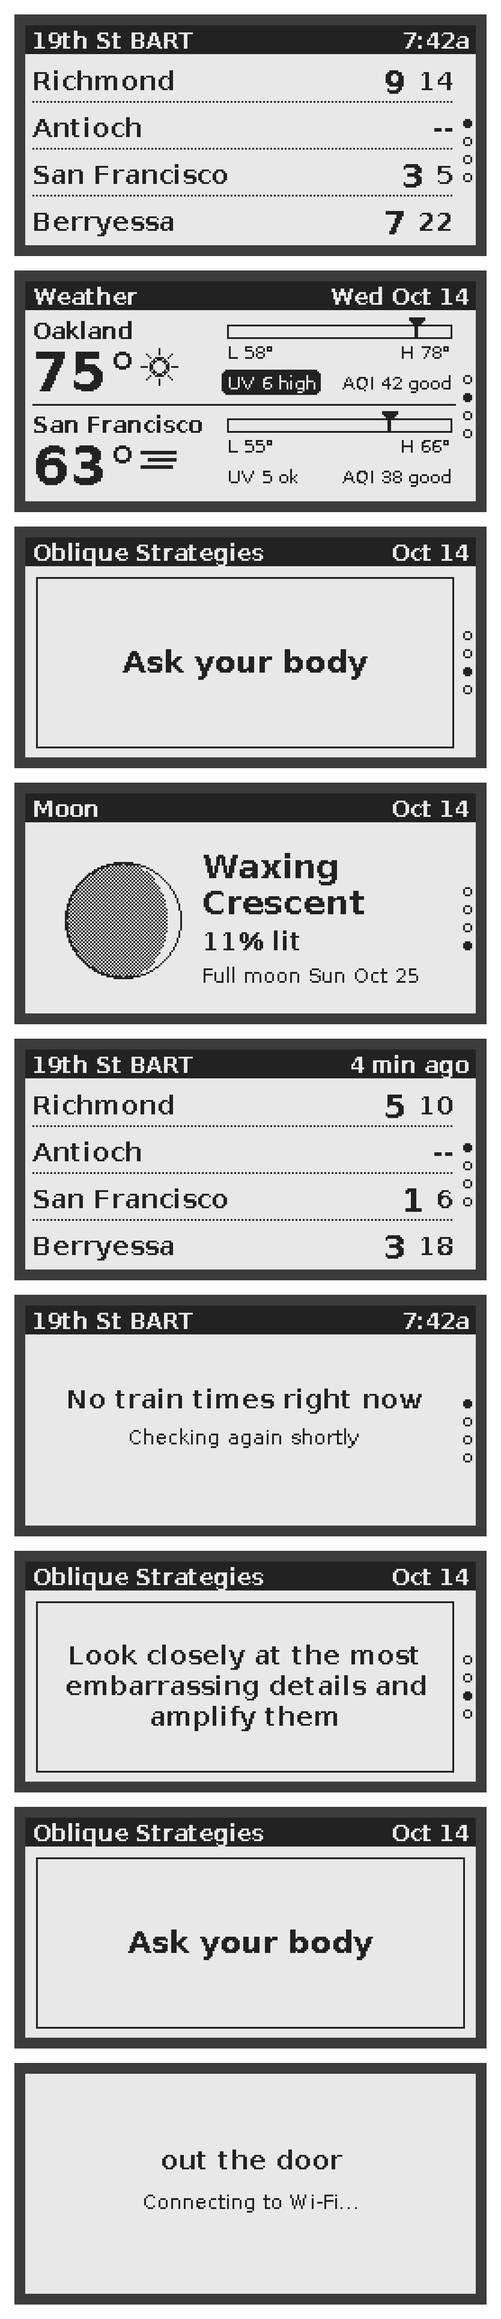
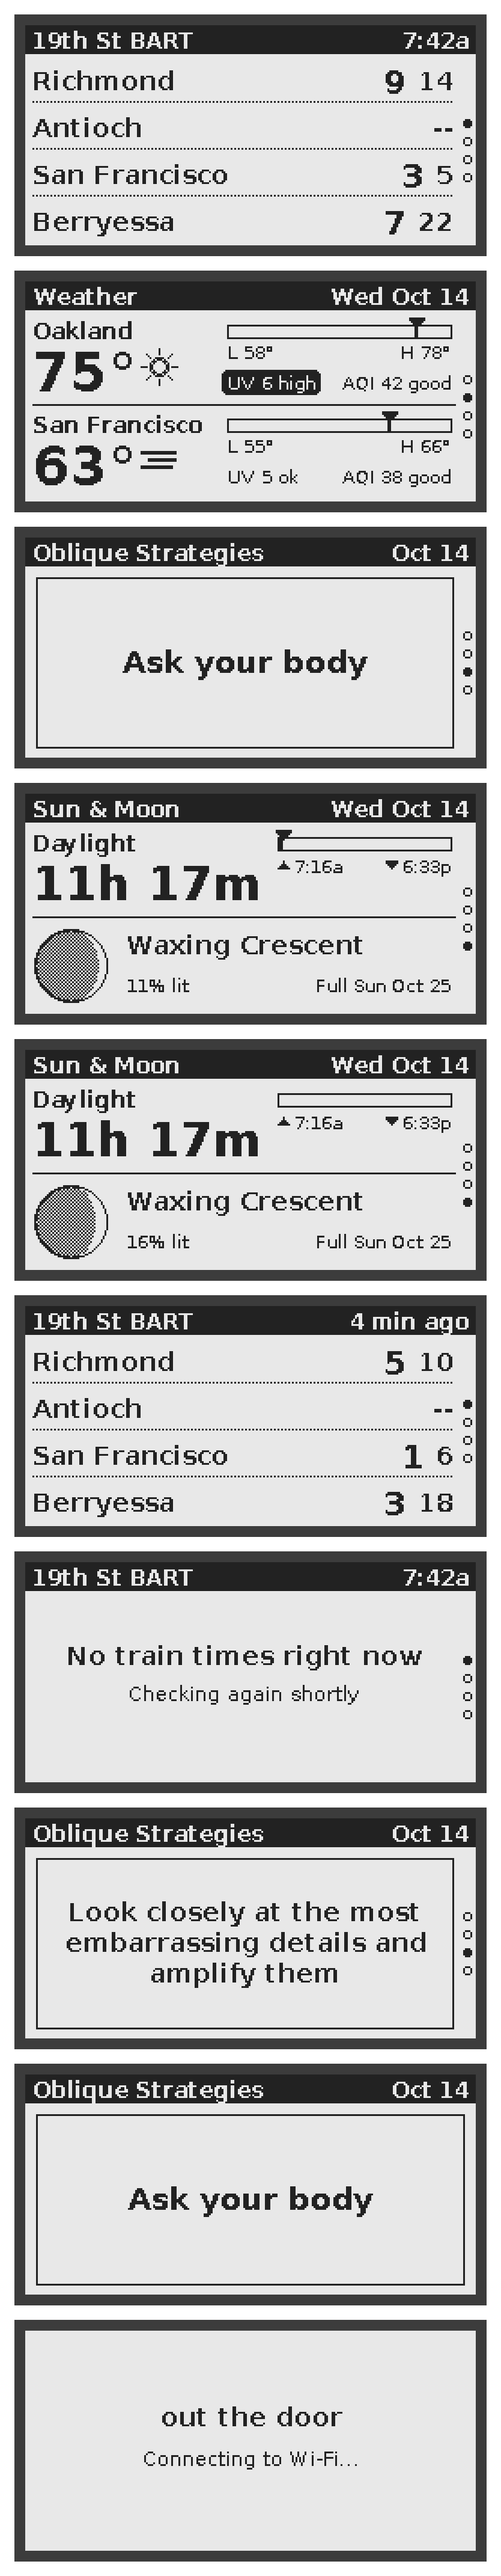
Draft: Sun & Moon screen in place of the moon screen
Day length, a sunrise-to-sunset bar with now marked (like the weather
screen's day bar), and the moon below with phase, % lit and next full moon.
Sunrise/sunset computed offline for the first weather city.

Claude-Session: https://claude.ai/code/session_01M5UbGXJzkkxR9ktM5CU7Wv

diff --git a/lib/core/screens.cpp b/lib/core/screens.cpp
@@ -265,6 +265,58 @@ void drawMoon(Adafruit_GFX &g, const Now &now) {
   pageDots(g, 3);
 }
 
+void drawSunMoon(Adafruit_GFX &g, const Now &now, const CityConfig &where) {
+  char buf[48];
+  formatDayMonthDay(now, buf, sizeof buf);
+  header(g, "Sun & Moon", buf);
+  g.drawFastHLine(4, 68, CONTENT_R - 3, INK);
+
+  // Top: day length, and a bar from sunrise to sunset with now marked on it,
+  // drawn like the weather screen's low-to-high bar.
+  drawText(g, BOLD12, 4, 20, "Daylight", INK);
+  long rise, set;
+  if (!sunTimes(now.localDays, where.lat, where.lon, &rise, &set)) {
+    drawText(g, BOLD26, 4, 34, "--", INK);
+  } else {
+    const long mins = (set - rise + 30) / 60;
+    snprintf(buf, sizeof buf, "%ldh %ldm", mins / 60, mins % 60);
+    drawText(g, BOLD26, 4, 34, buf, INK);
+
+    const int bx0 = 140, bx1 = CONTENT_R - 2, by0 = 24, by1 = 31;
+    g.drawRect(bx0, by0, bx1 - bx0 + 1, by1 - by0 + 1, INK);
+    if (now.epoch > rise && now.epoch < set) {
+      const int mx = bx0 + (int)((now.epoch - rise) * (bx1 - bx0) / (set - rise));
+      g.fillRect(bx0, by0, mx - bx0, by1 - by0 + 1, INK);
+      g.fillTriangle(mx - 4, by0 - 4, mx + 4, by0 - 4, mx, by0 + 1, INK);
+    }
+    // Small up/down arrows instead of words keep the line short.
+    const int ty = 34, ay = ty + 4;
+    formatTime(makeNow((time_t)rise), buf, sizeof buf);
+    g.fillTriangle(bx0, ay + 3, bx0 + 6, ay + 3, bx0 + 3, ay - 1, INK);
+    drawText(g, SANS10, bx0 + 9, ty, buf, INK);
+    formatTime(makeNow((time_t)set), buf, sizeof buf);
+    const int ax = bx1 - textWidth(SANS10, buf) - 9;
+    g.fillTriangle(ax, ay - 1, ax + 6, ay - 1, ax + 3, ay + 3, INK);
+    drawTextRight(g, SANS10, bx1, ty, buf, INK);
+  }
+
+  // Bottom: the moon, its phase, and the next full (or new) moon.
+  const double age = moonAge(now.utcDays);
+  moonDisc(g, 25, 95, 20, age);
+  const char *name = moonPhaseName(age);
+  drawText(g, BOLD14, 56, 76, name, INK);
+  snprintf(buf, sizeof buf, "%d%% lit", (int)lround(moonIllumination(age) * 100));
+  drawText(g, SANS10, 56, 100, buf, INK);
+  const bool full = strcmp(name, "Full Moon") == 0;
+  const double ahead = full ? fmod(SYNODIC_MONTH - age, SYNODIC_MONTH) : daysUntilFull(age);
+  const Now then = makeNow((time_t)(now.epoch + (long)(ahead * 86400)));
+  char day[24];
+  formatDayMonthDay(then, day, sizeof day);
+  snprintf(buf, sizeof buf, "%s %s", full ? "New" : "Full", day);
+  drawTextRight(g, SANS10, CONTENT_R - 2, 100, buf, INK);
+  pageDots(g, 3);
+}
+
 void drawSplash(Adafruit_GFX &g, const char *line) {
   drawTextCenter(g, BOLD14, SCREEN_W / 2, 40, "out the door", INK);
   drawTextCenter(g, SANS11, SCREEN_W / 2, 64, line, INK);

diff --git a/host/main.cpp b/host/main.cpp
@@ -105,6 +105,11 @@ static void checkMoon() {
   CHECK(moonIllumination(age) > 0.99);
   const double crescent = moonAge(utc(2026, 10, 14, 14, 42) / 86400.0);
   CHECK(std::string(moonPhaseName(crescent)) == "Waxing Crescent");
+  // Oakland on 2026-10-14: sunrise about 7:15 am, sunset about 6:33 pm PDT.
+  long rise, set;
+  CHECK(sunTimes(makeNow(utc(2026, 10, 14, 19, 0)).localDays, 37.8044, -122.2712, &rise, &set));
+  CHECK(labs(rise - utc(2026, 10, 14, 14, 15)) < 4 * 60);
+  CHECK(labs(set - utc(2026, 10, 15, 1, 33)) < 4 * 60);
 }
 
 static void writePbm(const GFXcanvas1 &c, const std::string &path) {
@@ -157,7 +162,8 @@ int main(int argc, char **argv) {
   preview(out, "1_trains", [&](Adafruit_GFX &g) { drawTrains(g, now, trains(0, true)); });
   preview(out, "2_weather", [&](Adafruit_GFX &g) { drawWeather(g, now, CITIES, cities); });
   preview(out, "3_oblique", [&](Adafruit_GFX &g) { drawOblique(g, now, card); });
-  preview(out, "4_moon", [&](Adafruit_GFX &g) { drawMoon(g, now); });
+  preview(out, "4_moon", [&](Adafruit_GFX &g) { drawSunMoon(g, now, CITIES[0]); });
+  preview(out, "4b_sun_moon_night", [&](Adafruit_GFX &g) { drawSunMoon(g, makeNow(utc(2026, 10, 15, 5, 0)), CITIES[0]); });
   preview(out, "5_trains_stale", [&](Adafruit_GFX &g) { drawTrains(g, now, trains(4 * 60, true)); });
   preview(out, "6_trains_none", [&](Adafruit_GFX &g) { drawTrains(g, now, trains(0, false)); });
   preview(out, "7_oblique_long", [&](Adafruit_GFX &g) {

diff --git a/lib/core/moon.cpp b/lib/core/moon.cpp
@@ -24,3 +24,20 @@ double daysUntilFull(double age) {
   double d = fmod(SYNODIC_MONTH / 2 - age, SYNODIC_MONTH);
   return d < 0 ? d + SYNODIC_MONTH : d;
 }
+
+// The usual sunrise equation (about a minute's accuracy at these latitudes).
+bool sunTimes(long localDays, double lat, double lon, long *rise, long *set) {
+  const double rad = M_PI / 180;
+  const double jStar = (localDays - 10957) - lon / 360;  // days since 2000-01-01 12:00 UTC, near local noon
+  const double m = fmod(357.5291 + 0.98560028 * jStar, 360);
+  const double c = 1.9148 * sin(m * rad) + 0.02 * sin(2 * m * rad) + 0.0003 * sin(3 * m * rad);
+  const double l = fmod(m + c + 180 + 102.9372, 360);
+  const double transit = jStar + 0.0053 * sin(m * rad) - 0.0069 * sin(2 * l * rad);
+  const double sinDec = sin(l * rad) * sin(23.4397 * rad), cosDec = cos(asin(sinDec));
+  const double cosW = (sin(-0.833 * rad) - sin(lat * rad) * sinDec) / (cos(lat * rad) * cosDec);
+  if (cosW < -1 || cosW > 1) return false;
+  const double half = acos(cosW) / rad / 360;
+  *rise = (long)lround((transit - half + 10957.5) * 86400);
+  *set = (long)lround((transit + half + 10957.5) * 86400);
+  return true;
+}

diff --git a/lib/core/moon.h b/lib/core/moon.h
@@ -1,4 +1,4 @@
-// Moon phase from the date, no network needed.
+// Moon phase and sun times from the date, no network needed.
 #pragma once
 
 static const double SYNODIC_MONTH = 29.530588853;
@@ -7,3 +7,7 @@ double moonAge(double utcDays);          // days since the last new moon
 double moonIllumination(double age);     // 0..1
 const char *moonPhaseName(double age);   // e.g. "Waxing Crescent"
 double daysUntilFull(double age);
+
+// Today's sunrise and sunset as Unix times for the local date localDays at
+// (lat, lon). False when the sun doesn't rise or set that day.
+bool sunTimes(long localDays, double lat, double lon, long *rise, long *set);

diff --git a/lib/core/screens.h b/lib/core/screens.h
@@ -24,5 +24,7 @@ void drawWeather(Adafruit_GFX &g, const Now &now, const CityConfig *config, cons
 // page < 0 hides the page dots (quiet hours).
 void drawOblique(Adafruit_GFX &g, const Now &now, const char *card, int page = 2);
 void drawMoon(Adafruit_GFX &g, const Now &now);
+// Day length and sunrise/sunset at where, with the moon below.
+void drawSunMoon(Adafruit_GFX &g, const Now &now, const CityConfig &where);
 // Shown while the board starts up.
 void drawSplash(Adafruit_GFX &g, const char *line);

diff --git a/src/main.cpp b/src/main.cpp
@@ -120,7 +120,7 @@ static void draw(int which) {
       drawOblique(canvas, now, cardForDay(now.localDays));
       break;
     default:
-      drawMoon(canvas, now);
+      drawSunMoon(canvas, now, CITIES[0]);
       break;
   }
 }
